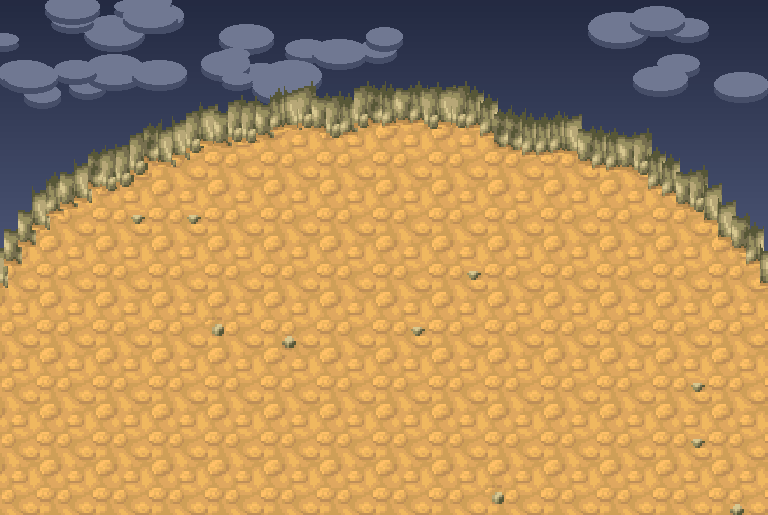
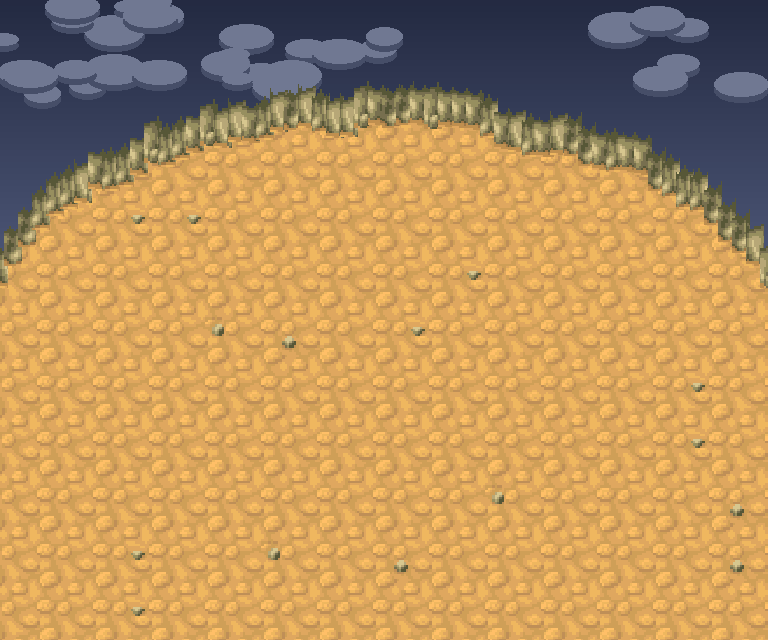
La cima del Monte Acero

diff --git a/shared/story.js b/shared/story.js
@@ -865,6 +865,31 @@ export const SCENES = [
     ],
   },
   {
+    // La cima del Monte Acero, la primera vez (se lanza al llegar a la sala de Zapdos): Zapdos, cansado tras su combate con Scyther,
+    // te pone a prueba. Termina con la señal del rayo bajo tus pies y el fundido al combate.
+    id: 'zapdos-cima', trigger: 'monte', when: () => false,
+    area: 'cima', player: { x: 384, y: 600, dir: 'up' }, hideNpcs: true, cam: { x: 84, y: 0 }, boxBottom: true, music: 'tension',
+    actors: { zapdos: { sp: 'zapdos', x: 384, y: 172, dir: 'down', noLook: true } },
+    objects: { mark: { kind: 'mark', x: 384, y: 261, hidden: true } },
+    steps: [
+      { do: 'narration', text: 'Tras una larga y ardua batalla…' },
+      { do: 'fade', to: 'in', ms: 1000 }, { do: 'storm', on: true, cx: 384, cy: 336, rx: 400, ry: 212 },
+      { do: 'wait', ms: 300 }, { do: 'emote', who: 'zapdos', fx: 'sweat' }, { do: 'wait', ms: 1000 },               // Zapdos, algo cansado
+      { do: 'move', who: 'player', to: [[384, 262]], speed: 0.9 },
+      { do: 'emote', who: 'player', fx: 'shock' }, { do: 'jump', who: 'player', to: [384, 262], ms: 260, h: 8 }, { do: 'wait', ms: 700 },
+      { do: 'say', who: 'zapdos', mood: 'Normal', text: 'Otro visitante. Hoy no deja de subir gente.' },
+      { do: 'say', who: 'zapdos', mood: 'Normal', text: 'Hace poco estuvo aquí un Scyther. Se fue sin lo que buscaba.' },
+      { do: 'emote', who: 'player', fx: 'exclaim' }, { do: 'wait', ms: 700 },
+      { do: 'say', who: 'zapdos', mood: 'Normal', text: '¿Y tú? ¿También vienes a por mi pluma?' },
+      { do: 'emote', who: 'player', fx: 'question' }, { do: 'wait', ms: 900 },
+      { do: 'say', who: 'zapdos', mood: 'Normal', text: 'Da igual lo que respondas. Muéstrame por qué luchas.' },
+      // la señal del rayo, bajo nuestros pies… y de ahí, al combate
+      { do: 'storm', on: false }, { do: 'anim', who: 'zapdos', anim: 'Charge', hold: true }, { do: 'object', id: 'mark', action: 'show' },
+      { do: 'emote', who: 'player', fx: 'shock' }, { do: 'wait', ms: 700 },
+      { do: 'fade', to: 'out', ms: 700 },
+    ],
+  },
+  {
     // Monte Acero, cinco pisos antes de la cima (solo la primera vez; se lanza desde newFloor): Scyther llega agotado ante Zapdos.
     // Hablan, Zapdos le lanza un rayo, Scyther lo esquiva de un salto atrás… y empieza su combate (fuera de pantalla).
     id: 'scyther-zapdos', trigger: 'monte', when: () => false,

diff --git a/client/js/game.js b/client/js/game.js
@@ -1422,6 +1422,10 @@ function newFloor() {
   if (built.kind === 'jirachi' || state.dungeon.arena) {
     // el jefe habla al llegar (la sala de descanso anterior ya ofrecía guardar o volver)
     if (def.id === 'entrenamiento' && built.boss?.species === 'chatot') { chatotBossIntro(built.boss); }
+    else if (def.id === 'monte' && built.boss?.species === 'zapdos' && !(meta?.scenes || []).includes('zapdos-cima')) {   // la primera vez: la escena de la cima
+      built.boss.hp = Math.round(built.boss.maxHp * 0.75);   // viene de pelear con Scyther: algo cansado
+      setTimeout(() => dungeonScene('zapdos-cima'), 300);
+    }
     else {
     const boss = built.boss, lines = BOSS_LINES[boss?.species] || [boss?.big ? `${boss.name} te espera con sus súbditos.` : `${boss?.name} aguarda al final de la sala. Su presencia llena el aire.`];
     openDialog(lines.map(t => ({ who: BOSS_LINES[boss?.species] ? boss.name : undefined, sp: BOSS_LINES[boss?.species] ? boss.species : undefined, mood: 'Determined', text: t })));

diff --git a/client/js/hub.js b/client/js/hub.js
@@ -68,7 +68,7 @@ export const HUB = {
   },
   // solo para escenas (no se llega andando): la cima del Monte Acero, con el cielo de tormenta (tools/build-cima.py)
   cima: {
-    img: 'client/assets/hub/scene_cima.png', mask: 'client/assets/hub/scene_cima_mask.png', spawn: { x: 384, y: 300 },
+    img: 'client/assets/hub/scene_cima.png', mask: 'client/assets/hub/scene_cima_mask.png', spawn: { x: 384, y: 300 }, h: 640,
     exits: [], npcs: [], signs: [],
   },
   mercado: {
